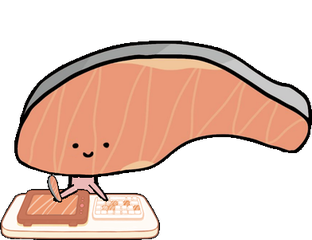
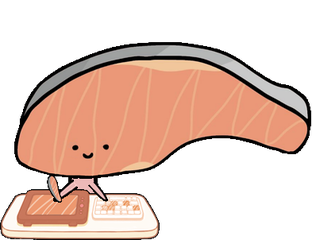
update v1786997873

diff --git a/mascot.py b/mascot.py
@@ -8346,11 +8346,13 @@ class Mascot:
                           fill="#fdfdf6", outline="#d8d0bf", width=2)
             c.create_oval(mx - 23, y0 - 17, mx + 23, y0 + 1,
                           fill="#ef9d76", outline="#c96f4e", width=2)
-            for i2 in range(3):
-                sx2 = mx - 12 + i2 * 11
-                c.create_arc(sx2 - 6, y0 - 15, sx2 + 8, y0 - 1, start=40,
-                             extent=120, style="arc",
-                             outline="#f8cfb6", width=2)
+            # 살 결은 사선으로 흐른다. 가로로 누운 호로 그렸더니 빵처럼
+            # 보인다는 제보가 있었다. 가장자리 줄은 짧게 해 살 밖으로
+            # 삐져나가지 않게 한다.
+            for dx2, half in ((-15, 3), (-5, 5), (4, 5), (14, 3)):
+                sx2, cy2 = mx + dx2, y0 - 8
+                c.create_line(sx2 - 4, cy2 + half, sx2 + 4, cy2 - half,
+                              fill="#f8cfb6", width=2, capstyle="round")
         elif deco == "tangerine":
             # 레냥: 귤 한 알 (열매 + 초록 꼭지잎)
             mx = (x0 + x1) / 2
@@ -13152,11 +13154,14 @@ class Mascot:
                                fill="#fdfdf6", outline="#d8d0bf", width=2)
                 cv.create_oval(mx - 27, y - 9, mx + 27, y + 11,
                                fill="#ef9d76", outline="#c96f4e", width=2)
-                for i2 in range(3):
-                    sx2 = mx - 14 + i2 * 13
-                    cv.create_arc(sx2 - 7, y - 7, sx2 + 9, y + 9, start=40,
-                                  extent=120, style="arc",
-                                  outline="#f8cfb6", width=2)
+                # 연어살 무늬는 사선으로 흐른다. 가로로 누운 호로 그렸더니
+                # 바게트처럼 보인다는 제보가 있었다. 가장자리 줄은 짧게 해
+                # 타원 밖으로 삐져나가지 않게 한다.
+                for dx2, half in ((-17, 4), (-6, 7), (5, 7), (16, 4)):
+                    sx2 = mx + dx2
+                    cv.create_line(sx2 - 4, y + half, sx2 + 4, y - half,
+                                   fill="#f8cfb6", width=2,
+                                   capstyle="round")
             elif deco == "tangerine":          # 레냥: 귤 한 알
                 cv.create_oval(mx - 19, y - 8, mx + 19, y + 24,
                                fill="#f5a623", outline="#c97c12", width=2)
